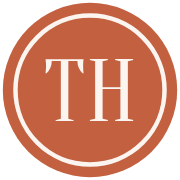
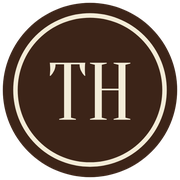
fix: sincroniza v2.2.1 (aviso de cookies sin CLS e íconos marrones)
El banner reserva su espacio desde el primer pintado y los íconos
y el sello usan la paleta #3C2418 / #F3ECD8.

diff --git a/styles.css b/styles.css
@@ -691,7 +691,10 @@ body.modal-open .wa-float,body.modal-open .mobile-cart-bar{display:none}
   -webkit-mask-image:none;mask-image:none;
 }
 
-/* Aviso de cookies */
+/* Aviso de cookies: position:fixed y espacio reservado en CSS desde el primer pintado (sin medir en JS, para no causar CLS). */
+:root{--cookie-reserve:0px}
+html.has-cookie-banner{--cookie-reserve:128px}
+@media (max-width:767px){html.has-cookie-banner{--cookie-reserve:220px}}
 .cookie-banner{position:fixed;left:0;right:0;bottom:0;z-index:45;background:var(--white);color:var(--dark);border-top:1px solid var(--line);box-shadow:0 -10px 24px -16px rgba(60,36,24,.35);padding:16px 20px calc(16px + env(safe-area-inset-bottom))}
 .cookie-banner[hidden]{display:none!important}
 .cookie-banner-inner{max-width:1200px;margin:0 auto;display:flex;flex-wrap:wrap;align-items:center;gap:14px 24px}
@@ -699,11 +702,11 @@ body.modal-open .wa-float,body.modal-open .mobile-cart-bar{display:none}
 .cookie-banner-actions{display:flex;flex-wrap:wrap;gap:8px;align-items:center}
 .cookie-policy-link{display:inline-flex;align-items:center;min-height:44px;padding:0 .4em;color:var(--brown);font-weight:600;font-size:.92rem;text-decoration:underline}
 .cookie-policy-link:hover{color:var(--brown-deep)}
-body.has-cookie-banner{padding-bottom:var(--cookie-offset,140px)}
-body.has-cookie-banner .wa-float{bottom:calc(var(--cookie-offset,140px) + 16px)}
+html.has-cookie-banner body,body.has-cookie-banner{padding-bottom:var(--cookie-reserve)}
+html.has-cookie-banner .wa-float,body.has-cookie-banner .wa-float{bottom:calc(var(--cookie-reserve) + 16px)}
 @media (max-width:767px){
-  body.has-cookie-banner .mobile-cart-bar{bottom:calc(var(--cookie-offset,140px) + 16px)}
-  body.has-cookie-banner .wa-float{right:14px;bottom:calc(var(--cookie-offset,140px) + 14px)}
+  html.has-cookie-banner .mobile-cart-bar,body.has-cookie-banner .mobile-cart-bar{bottom:calc(var(--cookie-reserve) + 16px)}
+  html.has-cookie-banner .wa-float,body.has-cookie-banner .wa-float{right:14px;bottom:calc(var(--cookie-reserve) + 14px)}
 }
 
 /* Mapa: se carga solo si hay consentimiento */

diff --git a/consent.js b/consent.js
@@ -41,23 +41,20 @@
     return el;
   }
 
-  function setBannerOffset(on) {
-    var banner = $("#cookie-banner");
-    var h = 0;
-    if (on && banner && !banner.hidden) h = Math.ceil(banner.getBoundingClientRect().height);
-    document.body.classList.toggle("has-cookie-banner", !!h);
-    document.body.style.setProperty("--cookie-offset", h ? h + "px" : "0px");
+  function setBannerClass(on) {
+    document.documentElement.classList.toggle("has-cookie-banner", !!on);
+    document.body.classList.toggle("has-cookie-banner", !!on);
   }
 
   function showBanner() {
     var banner = buildBanner();
     banner.hidden = false;
-    setBannerOffset(true);
+    setBannerClass(true);
   }
   function hideBanner() {
     var banner = $("#cookie-banner");
     if (banner) banner.hidden = true;
-    setBannerOffset(false);
+    setBannerClass(false);
   }
 
   function loadMap() {
@@ -116,9 +113,6 @@
       if (reset) { resetChoice(); }
     });
     apply();
-    window.addEventListener("resize", function () {
-      if (document.body.classList.contains("has-cookie-banner")) setBannerOffset(true);
-    });
   }
 
   if (document.readyState === "loading") document.addEventListener("DOMContentLoaded", onReady);

diff --git a/privacidad.html b/privacidad.html
@@ -3,6 +3,7 @@
 <html lang="es-VE">
 <head>
 <meta charset="utf-8"><meta name="viewport" content="width=device-width, initial-scale=1">
+<script>(function(){try{if(!localStorage.getItem("laborathorno-consent-v1"))document.documentElement.classList.add("has-cookie-banner")}catch(e){document.documentElement.classList.add("has-cookie-banner")}})();</script>
 <title>Política de privacidad | Laborathorno</title>
 <meta name="robots" content="noindex">
 <link rel="icon" href="favicon.svg" type="image/svg+xml">

diff --git a/cookies.html b/cookies.html
@@ -3,6 +3,7 @@
 <html lang="es-VE">
 <head>
 <meta charset="utf-8"><meta name="viewport" content="width=device-width, initial-scale=1">
+<script>(function(){try{if(!localStorage.getItem("laborathorno-consent-v1"))document.documentElement.classList.add("has-cookie-banner")}catch(e){document.documentElement.classList.add("has-cookie-banner")}})();</script>
 <title>Política de cookies | Laborathorno</title>
 <meta name="robots" content="noindex">
 <link rel="icon" href="favicon.svg" type="image/svg+xml">

diff --git a/aviso-legal.html b/aviso-legal.html
@@ -3,6 +3,7 @@
 <html lang="es-VE">
 <head>
 <meta charset="utf-8"><meta name="viewport" content="width=device-width, initial-scale=1">
+<script>(function(){try{if(!localStorage.getItem("laborathorno-consent-v1"))document.documentElement.classList.add("has-cookie-banner")}catch(e){document.documentElement.classList.add("has-cookie-banner")}})();</script>
 <title>Aviso legal | Laborathorno</title>
 <meta name="robots" content="noindex">
 <link rel="icon" href="favicon.svg" type="image/svg+xml">

diff --git a/catalogo.html b/catalogo.html
@@ -8,6 +8,7 @@
 <head>
   <meta charset="utf-8">
   <meta name="viewport" content="width=device-width, initial-scale=1">
+  <script>(function(){try{if(!localStorage.getItem("laborathorno-consent-v1"))document.documentElement.classList.add("has-cookie-banner")}catch(e){document.documentElement.classList.add("has-cookie-banner")}})();</script>
   <meta name="theme-color" content="#3C2418">
   <meta name="format-detection" content="telephone=no">
   <meta property="og:type" content="website">

diff --git a/index.html b/index.html
@@ -9,6 +9,7 @@
 <head>
   <meta charset="utf-8">
   <meta name="viewport" content="width=device-width, initial-scale=1">
+  <script>(function(){try{if(!localStorage.getItem("laborathorno-consent-v1"))document.documentElement.classList.add("has-cookie-banner")}catch(e){document.documentElement.classList.add("has-cookie-banner")}})();</script>
   <meta name="theme-color" content="#3C2418">
   <meta name="format-detection" content="telephone=no">
   <meta property="og:type" content="website">
